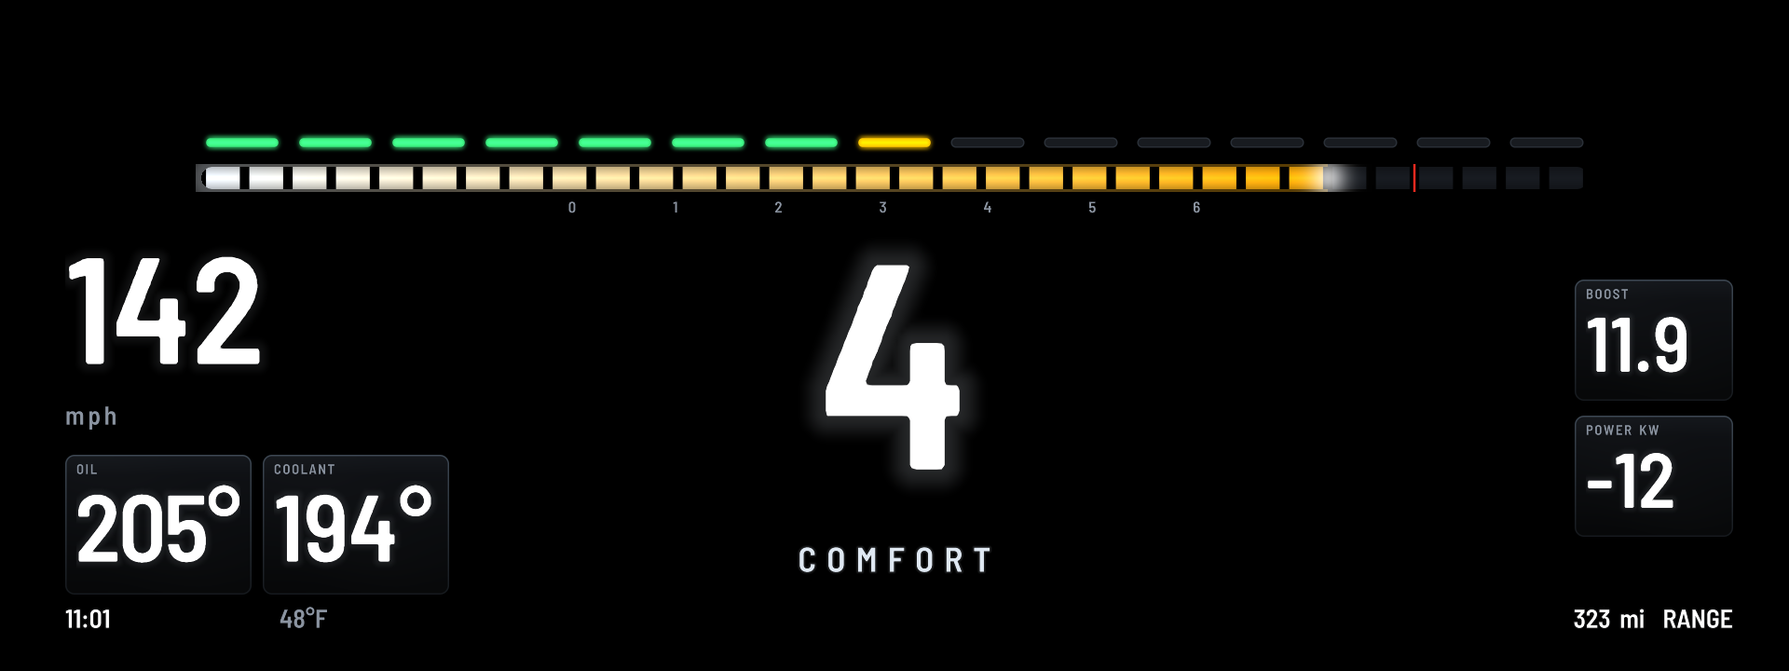
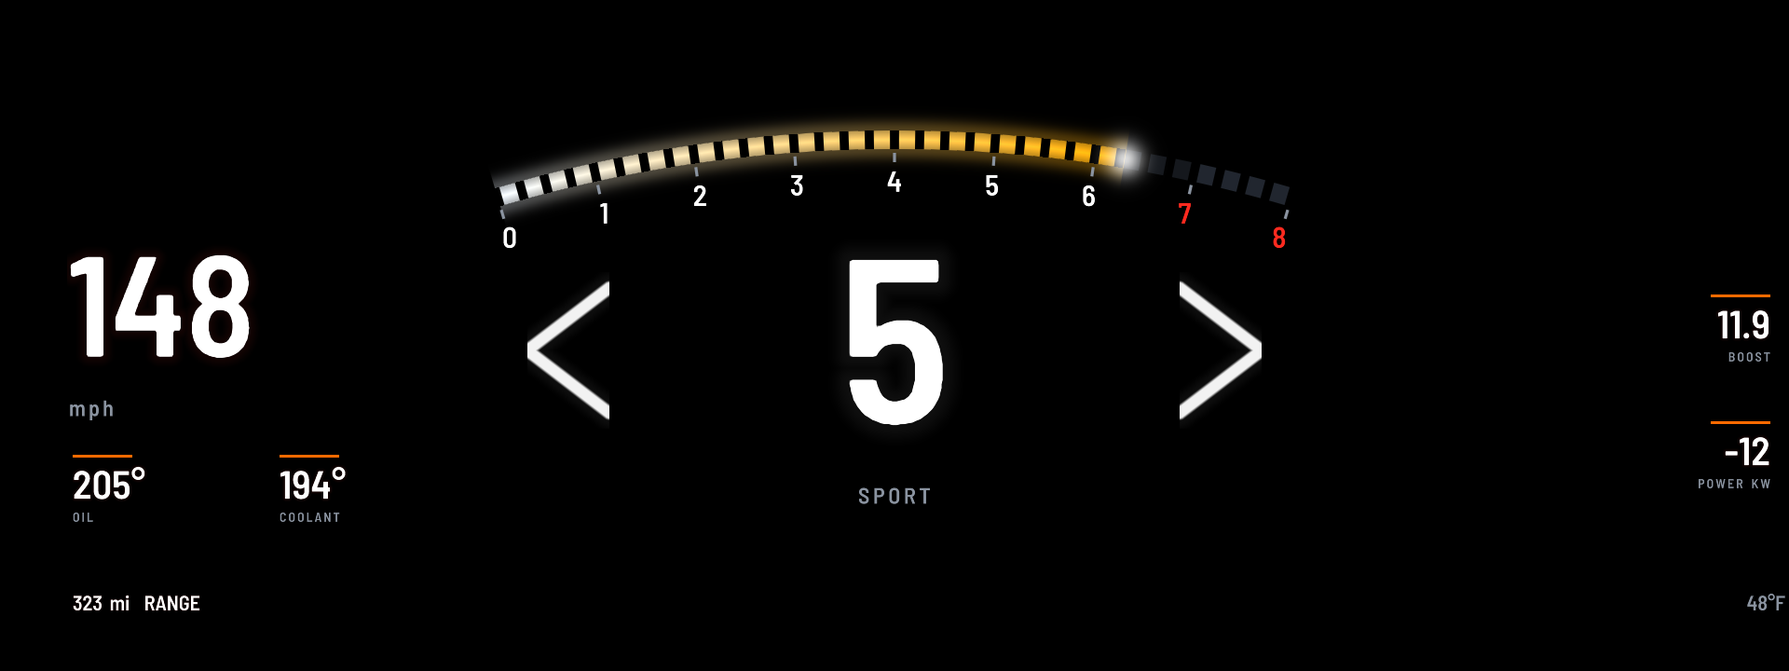
Supercar Attack 0.13.3: visual rebuild toward the M-concept reference
Arched 0-8 rev bar (band arc mode, reused), dominant gear framed by angular
chevron brackets (new chev shader), borderless performance readouts, quieter
drive mode, and a stronger full-screen red-line attack with a glowing frame.
Same renderer/cleanup lifecycle; new layers drop on hide like every other.
Layout, two shaders and M-car moves only; 23 info layers, 0 clearance clashes.

diff --git a/apps/cluster_layouts/layout_supercar_attack.js b/apps/cluster_layouts/layout_supercar_attack.js
@@ -80,7 +80,7 @@ function rpmBar(o, x, y, w, h) {
     const r = C.rpmScale(o);
     return {
         key: 'rpmBar', kind: 'band', x, y, w, h, z: 15,
-        params: { u_geo: [6, h / 2, 0, Math.max(6, h - 6)], u_span: [0, 0, Math.round(r.max * 4), 0.22], u_marks: [0, 0, 0, 0], u_red: [r.red / r.max], u_soft: [0] },
+        params: { u_geo: [7, h / 2, 0, Math.max(6, h - 8)], u_span: [0, 0, Math.round(r.max * 4), 0.3], u_marks: [0, 0, 0, 0], u_red: [r.red / r.max], u_soft: [0] },
         colors: (t) => ({ track: t.track, fill0: t.rpm0, fill1: t.amber, redc: t.red, tip: t.text, tick: t.dim, num: t.num }),
         value: (d) => (C.isNum(d.rpm) && d.engineOn !== false ? d.rpm / 1000 / r.max : 0), max: 1, sweep: true,
     };
@@ -96,7 +96,9 @@ function gear(x, y, w, h) {
         key: 'gear', kind: 'gear', x, y, w, h, text: gearBig, align: 0.5,
         trigger: gearNum, anim: { name: 'u_prog', keys: '0:0 230:1' },
         params: { u_prog: [1], u_pulse: [0] },
-        colors: (t, d) => ({ color: [atk.on || gearBig(d) === 'R' ? t.red : t.text, 1], glow: [atk.on ? t.red : t.accent, atk.on ? 0.4 : 0.2], impact: t.impact }),
+        // premium, not "huge text": a soft neutral halo in normal driving (never the look's accent, so Sport's red
+        // does not bleed onto the gear), a deliberate red glow only in the red-line attack.
+        colors: (t, d) => ({ color: [atk.on || gearBig(d) === 'R' ? t.red : t.text, 1], glow: [atk.on ? t.red : t.text, atk.on ? 0.3 : 0.07], impact: t.impact }),
         dyn: () => ({ u_pulse: [atk.on ? 1 : 0] }),
     };
 }
@@ -105,12 +107,49 @@ const attackField = (o) => ({
     params: {}, colors: (t) => ({ deep: t.deep, edge: t.edge, glowc: t.glowc }),
     value: (d) => attackLevel(o, d), max: 1,
 });
-/** A compact tile: card, label, value. */
+/** A compact tile: card, label, value (used by the map/stock safe fallbacks). */
 function tile(key, x, y, w, h, label, value, colours) {
     return [
         { key: key + 'Card', kind: 'panel', x, y, w, h, params: { u_box: [10, 1.5, 0.3, 1] }, colors: (t) => ({ top: t.tileTop, bottom: t.tileBottom, border: t.tileEdge }) },
         C.text(key + 'Lbl', x + 12, y + 8, w - 24, 16, label, lbl, { align: 0, tracking: 0.1 }),
         C.text(key, x + 12, y + 28, w - 24, h - 40, value, colours || white, { align: 0 }),
+    ];
+}
+
+/* ---------- the full-screen hero pieces ---------- */
+/** The arched rev bar (band arc mode, the same shader the dial layouts use): the signature sweep across the
+ * top, 0..n numbered, segmented, filling with rpm and turning red from the configured red line. The arc's
+ * centre sits far below the glass so the visible part is a shallow, wide sweep; the numerals are drawn just
+ * inside the arc so they clear the camera-cowl notch at the top middle of the real cluster. */
+function arcBar(o, cx, cy, R, T, half) {
+    const r = C.rpmScale(o);
+    const px = 110, py = 58, pw = 1700, ph = 320;                 // the piece covers the visible top of the arc
+    return {
+        key: 'rpmBar', kind: 'band', x: px, y: py, w: pw, h: ph, z: 6,
+        params: { u_geo: [cx - px, cy - py, R, T], u_span: [-half, half, Math.round(r.max * 4), 0.36],
+            u_marks: [r.max, 1, 34, -46], u_red: [r.red / r.max], u_soft: [0] },
+        // in the red-line attack the whole bar reads red (fill and track), so the top of the cluster goes red too
+        colors: (t) => (atk.on
+            ? { track: '#3a0908', fill0: t.red, fill1: '#ff6a2a', redc: t.red, tip: '#ffd0b0', tick: t.red, num: t.red }
+            : { track: t.track, fill0: t.rpm0, fill1: t.amber, redc: t.red, tip: t.text, tick: t.dim, num: t.num }),
+        value: (d) => (C.isNum(d.rpm) && d.engineOn !== false ? d.rpm / 1000 / r.max : 0), max: 1, sweep: true,
+    };
+}
+/** An angular chevron bracket framing the gear (chev shader): dir -1 = "<", +1 = ">". Neutral white, swelling
+ * red in the attack. */
+const chevron = (key, x, y, w, h, dir) => ({
+    key, kind: 'chev', x, y, w, h, params: { u_dir: [dir] },
+    colors: (t) => ({ color: [atk.on ? t.red : t.text, atk.on ? 1 : 0.9] }),
+    dyn: () => ({ u_hot: [atk.on ? 1 : 0] }),
+});
+/** A borderless performance readout: a short accent tick, a prominent value, a small label under it - no card.
+ * align 0 left, 1 right. The tick is orange normally, red in the attack. */
+function readout(key, x, y, w, label, value, align, vcol) {
+    const tickX = align === 1 ? x + w - 64 : x;
+    return [
+        { key: key + 'Ln', kind: 'flat', x: tickX, y, w: 64, h: 3, colors: (t) => ({ color: [atk.on ? t.red : t.impact, 1] }) },
+        C.text(key, x, y + 11, w, 46, value, vcol || white, { align }),
+        C.text(key + 'L', x, y + 60, w, 15, label, lbl, { align, tracking: 0.14 }),
     ];
 }
 
@@ -161,38 +200,44 @@ module.exports = {
             );
         }
 
-        // full screen (info) - the priority
-        const gearP = gear(690, 236, 540, 340);
-        const progP = C.text('progShift', 690, 582, 540, 40, progShift, (t, d) => ({ color: [atk.on ? t.red : t.accent, 1], glow: [atk.on ? t.red : t.accent, 0.2] }), { tracking: 0.28 });
-        const speedP = [C.text('speedDigits', 70, 252, 430, 176, (d) => C.speedText(o, d), white, { align: 0 }),
-            C.text('speedUnit', 70, 432, 430, 30, C.speedUnit(o), lbl, { align: 0, tracking: 0.12 })];
+        // full screen (info) - the priority, rebuilt toward the M-concept reference: a shallow ARCHED rev bar
+        // (0..n) sweeping across the top, a dominant CENTRE GEAR framed by angular chevrons with a quiet drive-
+        // mode line under it, big speed on the left, and borderless performance readouts (oil/coolant left,
+        // boost + torque/power right) tied together by thin accent ticks - no cards. The arc is sized to the real
+        // glass: its crown clears the camera-cowl notch and its ends stop short of the KOMBI's gear bracket.
+        const gearP = gear(730, 240, 460, 272);                       // centred on 960, the hero
+        const chevL = chevron('chevL', 566, 292, 88, 168, -1);        // < framing the gear
+        const chevR = chevron('chevR', 1266, 292, 88, 168, 1);        // >
+        const progP = C.text('progShift', 680, 520, 560, 26, progShift,
+            (t, d) => ({ color: [atk.on ? t.red : t.dim, 1], glow: [atk.on ? t.red : t.accent, atk.on ? 0.3 : 0] }), { tracking: 0.14 });
+        const speedP = [C.text('speedDigits', 72, 252, 420, 166, (d) => C.speedText(o, d), white, { align: 0 }),
+            C.text('speedUnit', 74, 426, 420, 26, C.speedUnit(o), lbl, { align: 0, tracking: 0.12 })];
+        const arc = arcBar(o, 960, 1650, 1500, 20, 16.5);             // centre x, centre y (below glass), radius, thickness, half-sweep°
+        const centre = [arc, gearP, chevL, chevR, progP].concat(speedP);
 
         /* Staged on-car diagnostic mode (development only). Production never sets a stage: app.json exposes no
-         * such setting and the Store build passes none, so STAGE is 'D' and the list below is exactly the full
-         * layout. Setting SUPERCAR_STAGE=A|B|C (env) or o.stage brings features up one at a time, so a black-square
-         * on the real cluster can be pinned to the feature that introduced it. See INSTALL_supercar_attack.md.
-         *   A: black background + speed + rev bar + a LARGE STATIC gear (no slam animation, no attack shader)
+         * such setting and the Store build passes none, so STAGE is 'D' and the list below is the full layout.
+         * SUPERCAR_STAGE=A|B|C (env) or o.stage brings features up one at a time so a black-square on the real
+         * cluster can be pinned to the feature that introduced it. See INSTALL_supercar_attack.md.
+         *   A: black background + speed + arched rev bar + gear framed by chevrons, a STATIC gear (no slam)
          *   B: A + the gear slam animation
-         *   C: B + the red-line attack field and the shift LEDs
-         *   D: the full layout (A..C + the tiles, clock, outside temp and range)  <- production default */
+         *   C: B + the full-screen red-line attack field
+         *   D: the full layout (A..C + the oil/coolant and boost/power readouts, range and outside temp) */
         const STAGE = String(o.stage || (typeof process !== 'undefined' && process.env && process.env.SUPERCAR_STAGE) || 'D').toUpperCase();
         if (STAGE !== 'D') {
             if (STAGE === 'A') { delete gearP.trigger; delete gearP.anim; }   // a static gear: no keyframe is ever fired
-            const core = [C.flat('bg', 0, 0, 1920, 720, 'bg'), rpmBar(o, 210, 176, 1500, 30), rpmNums(o, 210, 214, 1500, 18), gearP, progP].concat(speedP);
-            return STAGE === 'C' ? [attackField(o), shiftLights(o, 210, 138, 1500, 30, 15)].concat(core) : core;
+            const bg = C.flat('bg', 0, 0, 1920, 720, 'bg');
+            return STAGE === 'C' ? [bg, attackField(o)].concat(centre) : [bg].concat(centre);
         }
 
         return [C.flat('bg', 0, 0, 1920, 720, 'bg'), attackField(o)].concat(
-            [shiftLights(o, 210, 138, 1500, 30, 15), rpmBar(o, 210, 176, 1500, 30), rpmNums(o, 210, 214, 1500, 18)],
-            [gearP, progP],
-            speedP,
-            tile('oil', 70, 488, 200, 150, 'OIL', (d) => C.tempText(o, d.oil)),
-            tile('coolant', 282, 488, 200, 150, 'COOLANT', (d) => C.tempText(o, d.coolant)),
-            tile('boost', 1690, 300, 170, 130, boostLbl, boostNum(o)),
-            tile('power', 1690, 446, 170, 130, powerLbl, powerNum(o)),
-            [C.text('clock', 70, 650, 220, 30, C.clock, white, { align: 0 }),
-                C.text('outside', 300, 650, 220, 30, (d) => C.outsideText(o, d.outside), lbl, { align: 0 }),
-                C.text('frange', 1560, 650, 300, 30, (d) => C.distText(o, d.frange) + '  RANGE', white, { align: 1 })],
+            centre,
+            readout('oil', 78, 488, 180, 'OIL', (d) => C.tempText(o, d.oil), 0),
+            readout('coolant', 300, 488, 190, 'COOLANT', (d) => C.tempText(o, d.coolant), 0),
+            readout('boost', 1668, 316, 232, boostLbl, boostNum(o), 1),
+            readout('power', 1668, 452, 232, powerLbl, powerNum(o), 1),
+            [C.text('frange', 78, 636, 340, 24, (d) => C.distText(o, d.frange) + '  RANGE', white, { align: 0 }),
+                C.text('outside', 1600, 636, 316, 24, (d) => C.outsideText(o, d.outside), lbl, { align: 1 })],
         );
     },
 };

diff --git a/apps/cluster_centre/shaders.js b/apps/cluster_centre/shaders.js
@@ -841,13 +841,43 @@ void main() {
     if (v <= 0.001) { gl_FragColor = vec4(0.0); return; }
     vec2 p = v_uv;
     vec2 c = (p - 0.5) * vec2(u_size.x / u_size.y, 1.0);
-    float edge = smoothstep(0.30, 0.95, length(c));                 /* 0 centre .. 1 edges */
-    float breathe = 0.85 + 0.15 * sin(u_time * 5.0);
+    float edge = smoothstep(0.26, 0.95, length(c));                 /* 0 centre .. 1 edges */
+    float breathe = 0.82 + 0.18 * sin(u_time * 5.0);
     float bands = 0.06 * (0.5 + 0.5 * sin(p.x * 18.0 + p.y * 6.0 + u_time * 0.6)) * edge;
     float barTop = smoothstep(0.16, 0.0, p.y), barBot = smoothstep(0.82, 1.0, p.y);
-    vec3 col = mix(u_deep, u_edge, edge * edge) * breathe + u_glowc * bands + u_edge * (barTop + barBot) * 0.5 * breathe;
-    float a = v * clamp(0.34 + edge * 0.55 + (barTop + barBot) * 0.45, 0.0, 0.92);
+    /* a bright red frame hugging the whole panel edge: the reference's glowing red surround in the shift alert */
+    float border = min(min(p.x, 1.0 - p.x), min(p.y, 1.0 - p.y));
+    float frame = smoothstep(0.065, 0.0, border);
+    vec3 col = mix(u_deep, u_edge, edge * edge) * breathe + u_glowc * bands + u_edge * (barTop + barBot) * 0.5 * breathe + u_glowc * frame * breathe;
+    float a = v * clamp(0.40 + edge * 0.52 + (barTop + barBot) * 0.5 + frame * 0.55, 0.0, 0.96);
     gl_FragColor = vec4(col, a);
 }`;
 
-module.exports = { HIGHP, COMMON, GLYPH, FLAT_FS, PANEL_FS, DIAL_FS, BAND_FS, TEXT_FS, BG_FS, ICON_FS, SPARK_FS, CAR_FS, LEDS_FS, FLAG_FS, EAGLE_FS, FIREWORKS_FS, GEAR_FS, ATTACK_FS };
+/*
+ * CHEV_FS - an angular chevron bracket ("<" or ">") that frames the centre gear, the reference's aggressive
+ * supercar accent. One effect layer per side. u_dir: >0 draws ">", <0 draws "<". u_color is the stroke; u_hot
+ * (0..1, the engine's attack level) swells its red glow at the red line. No glyph atlas, no u_time.
+ */
+const CHEV_FS = `#version 100
+${HIGHP}
+uniform vec2 u_size;
+uniform vec4 u_color;
+uniform float u_hot;
+uniform float u_dir;
+varying vec2 v_uv;
+float segd(vec2 p, vec2 a, vec2 b) { vec2 pa = p - a, ba = b - a; float h = clamp(dot(pa, ba) / dot(ba, ba), 0.0, 1.0); return length(pa - ba * h); }
+void main() {
+    vec2 p = v_uv;
+    if (u_dir < 0.0) p.x = 1.0 - p.x;                 /* ">" by default, "<" when u_dir < 0 */
+    float asp = u_size.x / u_size.y;
+    vec2 q = vec2(p.x * asp, p.y);
+    vec2 vx = vec2(asp, 0.5);                         /* the vertex, at the outer edge, mid height */
+    float d = min(segd(q, vec2(0.0, 0.10), vx), segd(q, vec2(0.0, 0.90), vx));
+    float th = 0.05;                                  /* thin angular strokes, not a filled arrowhead */
+    float core = smoothstep(th, th - 0.022, d);
+    float glow = smoothstep(th * 2.6, th, d) * (0.10 + 0.6 * clamp(u_hot, 0.0, 1.0));
+    float a = core * u_color.a + glow * u_color.a * 0.55;
+    gl_FragColor = vec4(u_color.rgb, clamp(a, 0.0, 1.0));
+}`;
+
+module.exports = { HIGHP, COMMON, GLYPH, FLAT_FS, PANEL_FS, DIAL_FS, BAND_FS, TEXT_FS, BG_FS, ICON_FS, SPARK_FS, CAR_FS, LEDS_FS, FLAG_FS, EAGLE_FS, FIREWORKS_FS, GEAR_FS, ATTACK_FS, CHEV_FS };

diff --git a/apps/cluster_layouts/shaders.js b/apps/cluster_layouts/shaders.js
@@ -841,13 +841,43 @@ void main() {
     if (v <= 0.001) { gl_FragColor = vec4(0.0); return; }
     vec2 p = v_uv;
     vec2 c = (p - 0.5) * vec2(u_size.x / u_size.y, 1.0);
-    float edge = smoothstep(0.30, 0.95, length(c));                 /* 0 centre .. 1 edges */
-    float breathe = 0.85 + 0.15 * sin(u_time * 5.0);
+    float edge = smoothstep(0.26, 0.95, length(c));                 /* 0 centre .. 1 edges */
+    float breathe = 0.82 + 0.18 * sin(u_time * 5.0);
     float bands = 0.06 * (0.5 + 0.5 * sin(p.x * 18.0 + p.y * 6.0 + u_time * 0.6)) * edge;
     float barTop = smoothstep(0.16, 0.0, p.y), barBot = smoothstep(0.82, 1.0, p.y);
-    vec3 col = mix(u_deep, u_edge, edge * edge) * breathe + u_glowc * bands + u_edge * (barTop + barBot) * 0.5 * breathe;
-    float a = v * clamp(0.34 + edge * 0.55 + (barTop + barBot) * 0.45, 0.0, 0.92);
+    /* a bright red frame hugging the whole panel edge: the reference's glowing red surround in the shift alert */
+    float border = min(min(p.x, 1.0 - p.x), min(p.y, 1.0 - p.y));
+    float frame = smoothstep(0.065, 0.0, border);
+    vec3 col = mix(u_deep, u_edge, edge * edge) * breathe + u_glowc * bands + u_edge * (barTop + barBot) * 0.5 * breathe + u_glowc * frame * breathe;
+    float a = v * clamp(0.40 + edge * 0.52 + (barTop + barBot) * 0.5 + frame * 0.55, 0.0, 0.96);
     gl_FragColor = vec4(col, a);
 }`;
 
-module.exports = { HIGHP, COMMON, GLYPH, FLAT_FS, PANEL_FS, DIAL_FS, BAND_FS, TEXT_FS, BG_FS, ICON_FS, SPARK_FS, CAR_FS, LEDS_FS, FLAG_FS, EAGLE_FS, FIREWORKS_FS, GEAR_FS, ATTACK_FS };
+/*
+ * CHEV_FS - an angular chevron bracket ("<" or ">") that frames the centre gear, the reference's aggressive
+ * supercar accent. One effect layer per side. u_dir: >0 draws ">", <0 draws "<". u_color is the stroke; u_hot
+ * (0..1, the engine's attack level) swells its red glow at the red line. No glyph atlas, no u_time.
+ */
+const CHEV_FS = `#version 100
+${HIGHP}
+uniform vec2 u_size;
+uniform vec4 u_color;
+uniform float u_hot;
+uniform float u_dir;
+varying vec2 v_uv;
+float segd(vec2 p, vec2 a, vec2 b) { vec2 pa = p - a, ba = b - a; float h = clamp(dot(pa, ba) / dot(ba, ba), 0.0, 1.0); return length(pa - ba * h); }
+void main() {
+    vec2 p = v_uv;
+    if (u_dir < 0.0) p.x = 1.0 - p.x;                 /* ">" by default, "<" when u_dir < 0 */
+    float asp = u_size.x / u_size.y;
+    vec2 q = vec2(p.x * asp, p.y);
+    vec2 vx = vec2(asp, 0.5);                         /* the vertex, at the outer edge, mid height */
+    float d = min(segd(q, vec2(0.0, 0.10), vx), segd(q, vec2(0.0, 0.90), vx));
+    float th = 0.05;                                  /* thin angular strokes, not a filled arrowhead */
+    float core = smoothstep(th, th - 0.022, d);
+    float glow = smoothstep(th * 2.6, th, d) * (0.10 + 0.6 * clamp(u_hot, 0.0, 1.0));
+    float a = core * u_color.a + glow * u_color.a * 0.55;
+    gl_FragColor = vec4(u_color.rgb, clamp(a, 0.0, 1.0));
+}`;
+
+module.exports = { HIGHP, COMMON, GLYPH, FLAT_FS, PANEL_FS, DIAL_FS, BAND_FS, TEXT_FS, BG_FS, ICON_FS, SPARK_FS, CAR_FS, LEDS_FS, FLAG_FS, EAGLE_FS, FIREWORKS_FS, GEAR_FS, ATTACK_FS, CHEV_FS };

diff --git a/shared/shaders.js b/shared/shaders.js
@@ -841,13 +841,43 @@ void main() {
     if (v <= 0.001) { gl_FragColor = vec4(0.0); return; }
     vec2 p = v_uv;
     vec2 c = (p - 0.5) * vec2(u_size.x / u_size.y, 1.0);
-    float edge = smoothstep(0.30, 0.95, length(c));                 /* 0 centre .. 1 edges */
-    float breathe = 0.85 + 0.15 * sin(u_time * 5.0);
+    float edge = smoothstep(0.26, 0.95, length(c));                 /* 0 centre .. 1 edges */
+    float breathe = 0.82 + 0.18 * sin(u_time * 5.0);
     float bands = 0.06 * (0.5 + 0.5 * sin(p.x * 18.0 + p.y * 6.0 + u_time * 0.6)) * edge;
     float barTop = smoothstep(0.16, 0.0, p.y), barBot = smoothstep(0.82, 1.0, p.y);
-    vec3 col = mix(u_deep, u_edge, edge * edge) * breathe + u_glowc * bands + u_edge * (barTop + barBot) * 0.5 * breathe;
-    float a = v * clamp(0.34 + edge * 0.55 + (barTop + barBot) * 0.45, 0.0, 0.92);
+    /* a bright red frame hugging the whole panel edge: the reference's glowing red surround in the shift alert */
+    float border = min(min(p.x, 1.0 - p.x), min(p.y, 1.0 - p.y));
+    float frame = smoothstep(0.065, 0.0, border);
+    vec3 col = mix(u_deep, u_edge, edge * edge) * breathe + u_glowc * bands + u_edge * (barTop + barBot) * 0.5 * breathe + u_glowc * frame * breathe;
+    float a = v * clamp(0.40 + edge * 0.52 + (barTop + barBot) * 0.5 + frame * 0.55, 0.0, 0.96);
     gl_FragColor = vec4(col, a);
 }`;
 
-module.exports = { HIGHP, COMMON, GLYPH, FLAT_FS, PANEL_FS, DIAL_FS, BAND_FS, TEXT_FS, BG_FS, ICON_FS, SPARK_FS, CAR_FS, LEDS_FS, FLAG_FS, EAGLE_FS, FIREWORKS_FS, GEAR_FS, ATTACK_FS };
+/*
+ * CHEV_FS - an angular chevron bracket ("<" or ">") that frames the centre gear, the reference's aggressive
+ * supercar accent. One effect layer per side. u_dir: >0 draws ">", <0 draws "<". u_color is the stroke; u_hot
+ * (0..1, the engine's attack level) swells its red glow at the red line. No glyph atlas, no u_time.
+ */
+const CHEV_FS = `#version 100
+${HIGHP}
+uniform vec2 u_size;
+uniform vec4 u_color;
+uniform float u_hot;
+uniform float u_dir;
+varying vec2 v_uv;
+float segd(vec2 p, vec2 a, vec2 b) { vec2 pa = p - a, ba = b - a; float h = clamp(dot(pa, ba) / dot(ba, ba), 0.0, 1.0); return length(pa - ba * h); }
+void main() {
+    vec2 p = v_uv;
+    if (u_dir < 0.0) p.x = 1.0 - p.x;                 /* ">" by default, "<" when u_dir < 0 */
+    float asp = u_size.x / u_size.y;
+    vec2 q = vec2(p.x * asp, p.y);
+    vec2 vx = vec2(asp, 0.5);                         /* the vertex, at the outer edge, mid height */
+    float d = min(segd(q, vec2(0.0, 0.10), vx), segd(q, vec2(0.0, 0.90), vx));
+    float th = 0.05;                                  /* thin angular strokes, not a filled arrowhead */
+    float core = smoothstep(th, th - 0.022, d);
+    float glow = smoothstep(th * 2.6, th, d) * (0.10 + 0.6 * clamp(u_hot, 0.0, 1.0));
+    float a = core * u_color.a + glow * u_color.a * 0.55;
+    gl_FragColor = vec4(u_color.rgb, clamp(a, 0.0, 1.0));
+}`;
+
+module.exports = { HIGHP, COMMON, GLYPH, FLAT_FS, PANEL_FS, DIAL_FS, BAND_FS, TEXT_FS, BG_FS, ICON_FS, SPARK_FS, CAR_FS, LEDS_FS, FLAG_FS, EAGLE_FS, FIREWORKS_FS, GEAR_FS, ATTACK_FS, CHEV_FS };

diff --git a/apps/cluster_centre/engine.js b/apps/cluster_centre/engine.js
@@ -47,8 +47,8 @@ const TAU_MS = 30;           // a needle's easing towards its reading: smooth be
 const MIN_GAP_MS = 4;        // a reading's update at most this soon after the last
 const EPS = 0.0015;          // a value moving less than this (of its max) is not sent
 const SWEEP_MS = 700;        // up, then as long back down
-const FS = { flat: SH.FLAT_FS, panel: SH.PANEL_FS, dial: SH.DIAL_FS, band: SH.BAND_FS, text: SH.TEXT_FS, bg: SH.BG_FS, icon: SH.ICON_FS, spark: SH.SPARK_FS, car: SH.CAR_FS, leds: SH.LEDS_FS, flag: SH.FLAG_FS, eagles: SH.EAGLE_FS, fireworks: SH.FIREWORKS_FS, gear: SH.GEAR_FS, attack: SH.ATTACK_FS };
-const Z = { flag: -210, bg: -200, fireworks: -190, eagles: -180, flat: -100, panel: -50, spark: -20, band: 0, dial: 0, car: 0, leds: 0, attack: 10, text: 20, icon: 20, gear: 20 };
+const FS = { flat: SH.FLAT_FS, panel: SH.PANEL_FS, dial: SH.DIAL_FS, band: SH.BAND_FS, text: SH.TEXT_FS, bg: SH.BG_FS, icon: SH.ICON_FS, spark: SH.SPARK_FS, car: SH.CAR_FS, leds: SH.LEDS_FS, flag: SH.FLAG_FS, eagles: SH.EAGLE_FS, fireworks: SH.FIREWORKS_FS, gear: SH.GEAR_FS, attack: SH.ATTACK_FS, chev: SH.CHEV_FS };
+const Z = { flag: -210, bg: -200, fireworks: -190, eagles: -180, flat: -100, panel: -50, spark: -20, band: 0, dial: 0, car: 0, leds: 0, attack: 10, chev: 16, text: 20, icon: 20, gear: 20 };
 /* kinds that animate on the renderer's own clock (u_time): nothing is sent to move them */
 const TIMED = { car: true, leds: true, flag: true, eagles: true, fireworks: true, gear: true, attack: true };
 const HIST = 64;

diff --git a/apps/cluster_layouts/engine.js b/apps/cluster_layouts/engine.js
@@ -47,8 +47,8 @@ const TAU_MS = 30;           // a needle's easing towards its reading: smooth be
 const MIN_GAP_MS = 4;        // a reading's update at most this soon after the last
 const EPS = 0.0015;          // a value moving less than this (of its max) is not sent
 const SWEEP_MS = 700;        // up, then as long back down
-const FS = { flat: SH.FLAT_FS, panel: SH.PANEL_FS, dial: SH.DIAL_FS, band: SH.BAND_FS, text: SH.TEXT_FS, bg: SH.BG_FS, icon: SH.ICON_FS, spark: SH.SPARK_FS, car: SH.CAR_FS, leds: SH.LEDS_FS, flag: SH.FLAG_FS, eagles: SH.EAGLE_FS, fireworks: SH.FIREWORKS_FS, gear: SH.GEAR_FS, attack: SH.ATTACK_FS };
-const Z = { flag: -210, bg: -200, fireworks: -190, eagles: -180, flat: -100, panel: -50, spark: -20, band: 0, dial: 0, car: 0, leds: 0, attack: 10, text: 20, icon: 20, gear: 20 };
+const FS = { flat: SH.FLAT_FS, panel: SH.PANEL_FS, dial: SH.DIAL_FS, band: SH.BAND_FS, text: SH.TEXT_FS, bg: SH.BG_FS, icon: SH.ICON_FS, spark: SH.SPARK_FS, car: SH.CAR_FS, leds: SH.LEDS_FS, flag: SH.FLAG_FS, eagles: SH.EAGLE_FS, fireworks: SH.FIREWORKS_FS, gear: SH.GEAR_FS, attack: SH.ATTACK_FS, chev: SH.CHEV_FS };
+const Z = { flag: -210, bg: -200, fireworks: -190, eagles: -180, flat: -100, panel: -50, spark: -20, band: 0, dial: 0, car: 0, leds: 0, attack: 10, chev: 16, text: 20, icon: 20, gear: 20 };
 /* kinds that animate on the renderer's own clock (u_time): nothing is sent to move them */
 const TIMED = { car: true, leds: true, flag: true, eagles: true, fireworks: true, gear: true, attack: true };
 const HIST = 64;

diff --git a/shared/engine.js b/shared/engine.js
@@ -47,8 +47,8 @@ const TAU_MS = 30;           // a needle's easing towards its reading: smooth be
 const MIN_GAP_MS = 4;        // a reading's update at most this soon after the last
 const EPS = 0.0015;          // a value moving less than this (of its max) is not sent
 const SWEEP_MS = 700;        // up, then as long back down
-const FS = { flat: SH.FLAT_FS, panel: SH.PANEL_FS, dial: SH.DIAL_FS, band: SH.BAND_FS, text: SH.TEXT_FS, bg: SH.BG_FS, icon: SH.ICON_FS, spark: SH.SPARK_FS, car: SH.CAR_FS, leds: SH.LEDS_FS, flag: SH.FLAG_FS, eagles: SH.EAGLE_FS, fireworks: SH.FIREWORKS_FS, gear: SH.GEAR_FS, attack: SH.ATTACK_FS };
-const Z = { flag: -210, bg: -200, fireworks: -190, eagles: -180, flat: -100, panel: -50, spark: -20, band: 0, dial: 0, car: 0, leds: 0, attack: 10, text: 20, icon: 20, gear: 20 };
+const FS = { flat: SH.FLAT_FS, panel: SH.PANEL_FS, dial: SH.DIAL_FS, band: SH.BAND_FS, text: SH.TEXT_FS, bg: SH.BG_FS, icon: SH.ICON_FS, spark: SH.SPARK_FS, car: SH.CAR_FS, leds: SH.LEDS_FS, flag: SH.FLAG_FS, eagles: SH.EAGLE_FS, fireworks: SH.FIREWORKS_FS, gear: SH.GEAR_FS, attack: SH.ATTACK_FS, chev: SH.CHEV_FS };
+const Z = { flag: -210, bg: -200, fireworks: -190, eagles: -180, flat: -100, panel: -50, spark: -20, band: 0, dial: 0, car: 0, leds: 0, attack: 10, chev: 16, text: 20, icon: 20, gear: 20 };
 /* kinds that animate on the renderer's own clock (u_time): nothing is sent to move them */
 const TIMED = { car: true, leds: true, flag: true, eagles: true, fireworks: true, gear: true, attack: true };
 const HIST = 64;

diff --git a/apps/cluster_layouts/layouts.js b/apps/cluster_layouts/layouts.js
@@ -47,7 +47,7 @@ const M_MOVES = {
     },
     // the giant gear and its line drop below the M KOMBI's two middle boxes (the shift bar, LEDs, speed and
     // the side tiles are already clear of them); the map/stock variants keep the gear in the left column.
-    supercar_attack: { info: { gear: { y: 430, h: 180 }, progShift: { y: 614, h: 28 } } },
+    supercar_attack: { info: { gear: { y: 432, h: 176 }, progShift: { y: 618, h: 26 }, chevL: { y: 452, h: 150 }, chevR: { y: 452, h: 150 } } },
     // the display between the dials narrowed clear of the left box
     analog_sport: { info: { lcd: { squeeze: [584, 186] } } },
     digital_round: { info: { card: { squeeze: [584, 186] } } },

diff --git a/INSTALL_supercar_attack.md b/INSTALL_supercar_attack.md
@@ -43,10 +43,10 @@ sets none, so the normal Store install is always the full layout.
 
 | Stage | `SUPERCAR_STAGE` | What is drawn |
 |------|------------------|----------------|
-| A | `A` | black background, speed, rev bar, **large static gear** (no slam, no attack) |
+| A | `A` | black background, speed, arched rev bar, gear framed by chevrons, **static gear** (no slam, no attack) |
 | B | `B` | stage A **+ the gear-change slam animation** |
-| C | `C` | stage B **+ the red-line attack field and shift LEDs** |
-| D | unset | the full layout (adds oil/coolant, boost/power, clock, outside, range) |
+| C | `C` | stage B **+ the full-screen red-line attack field** |
+| D | unset | the full layout (adds oil/coolant and boost/power readouts, range, outside temp) |
 
 For each stage, in order A → B → C → D:
 
